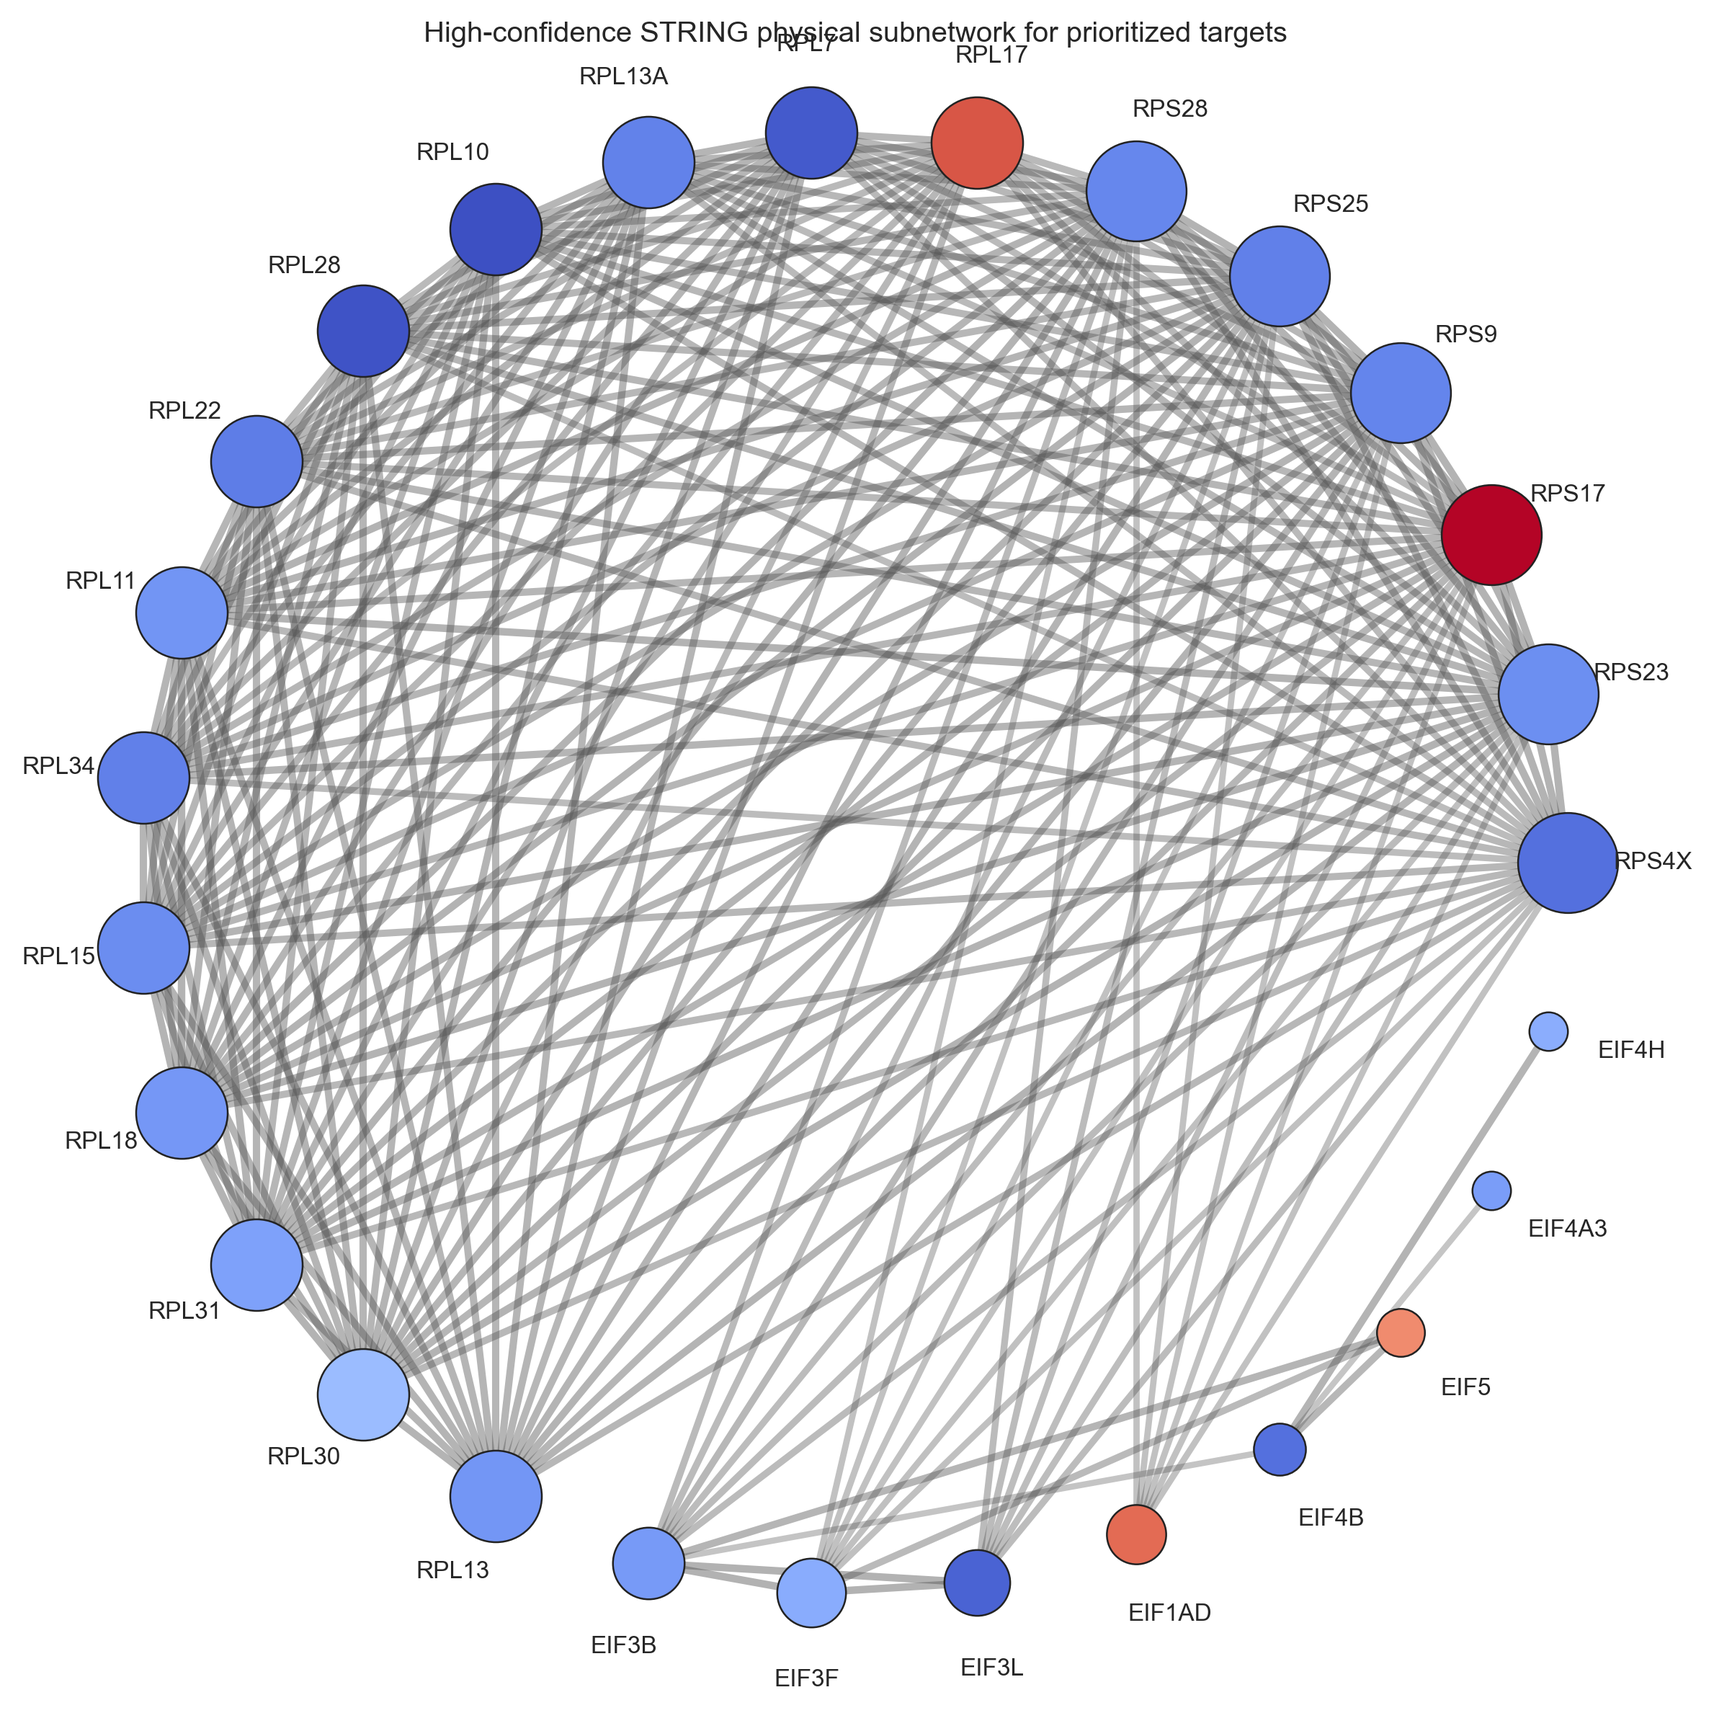
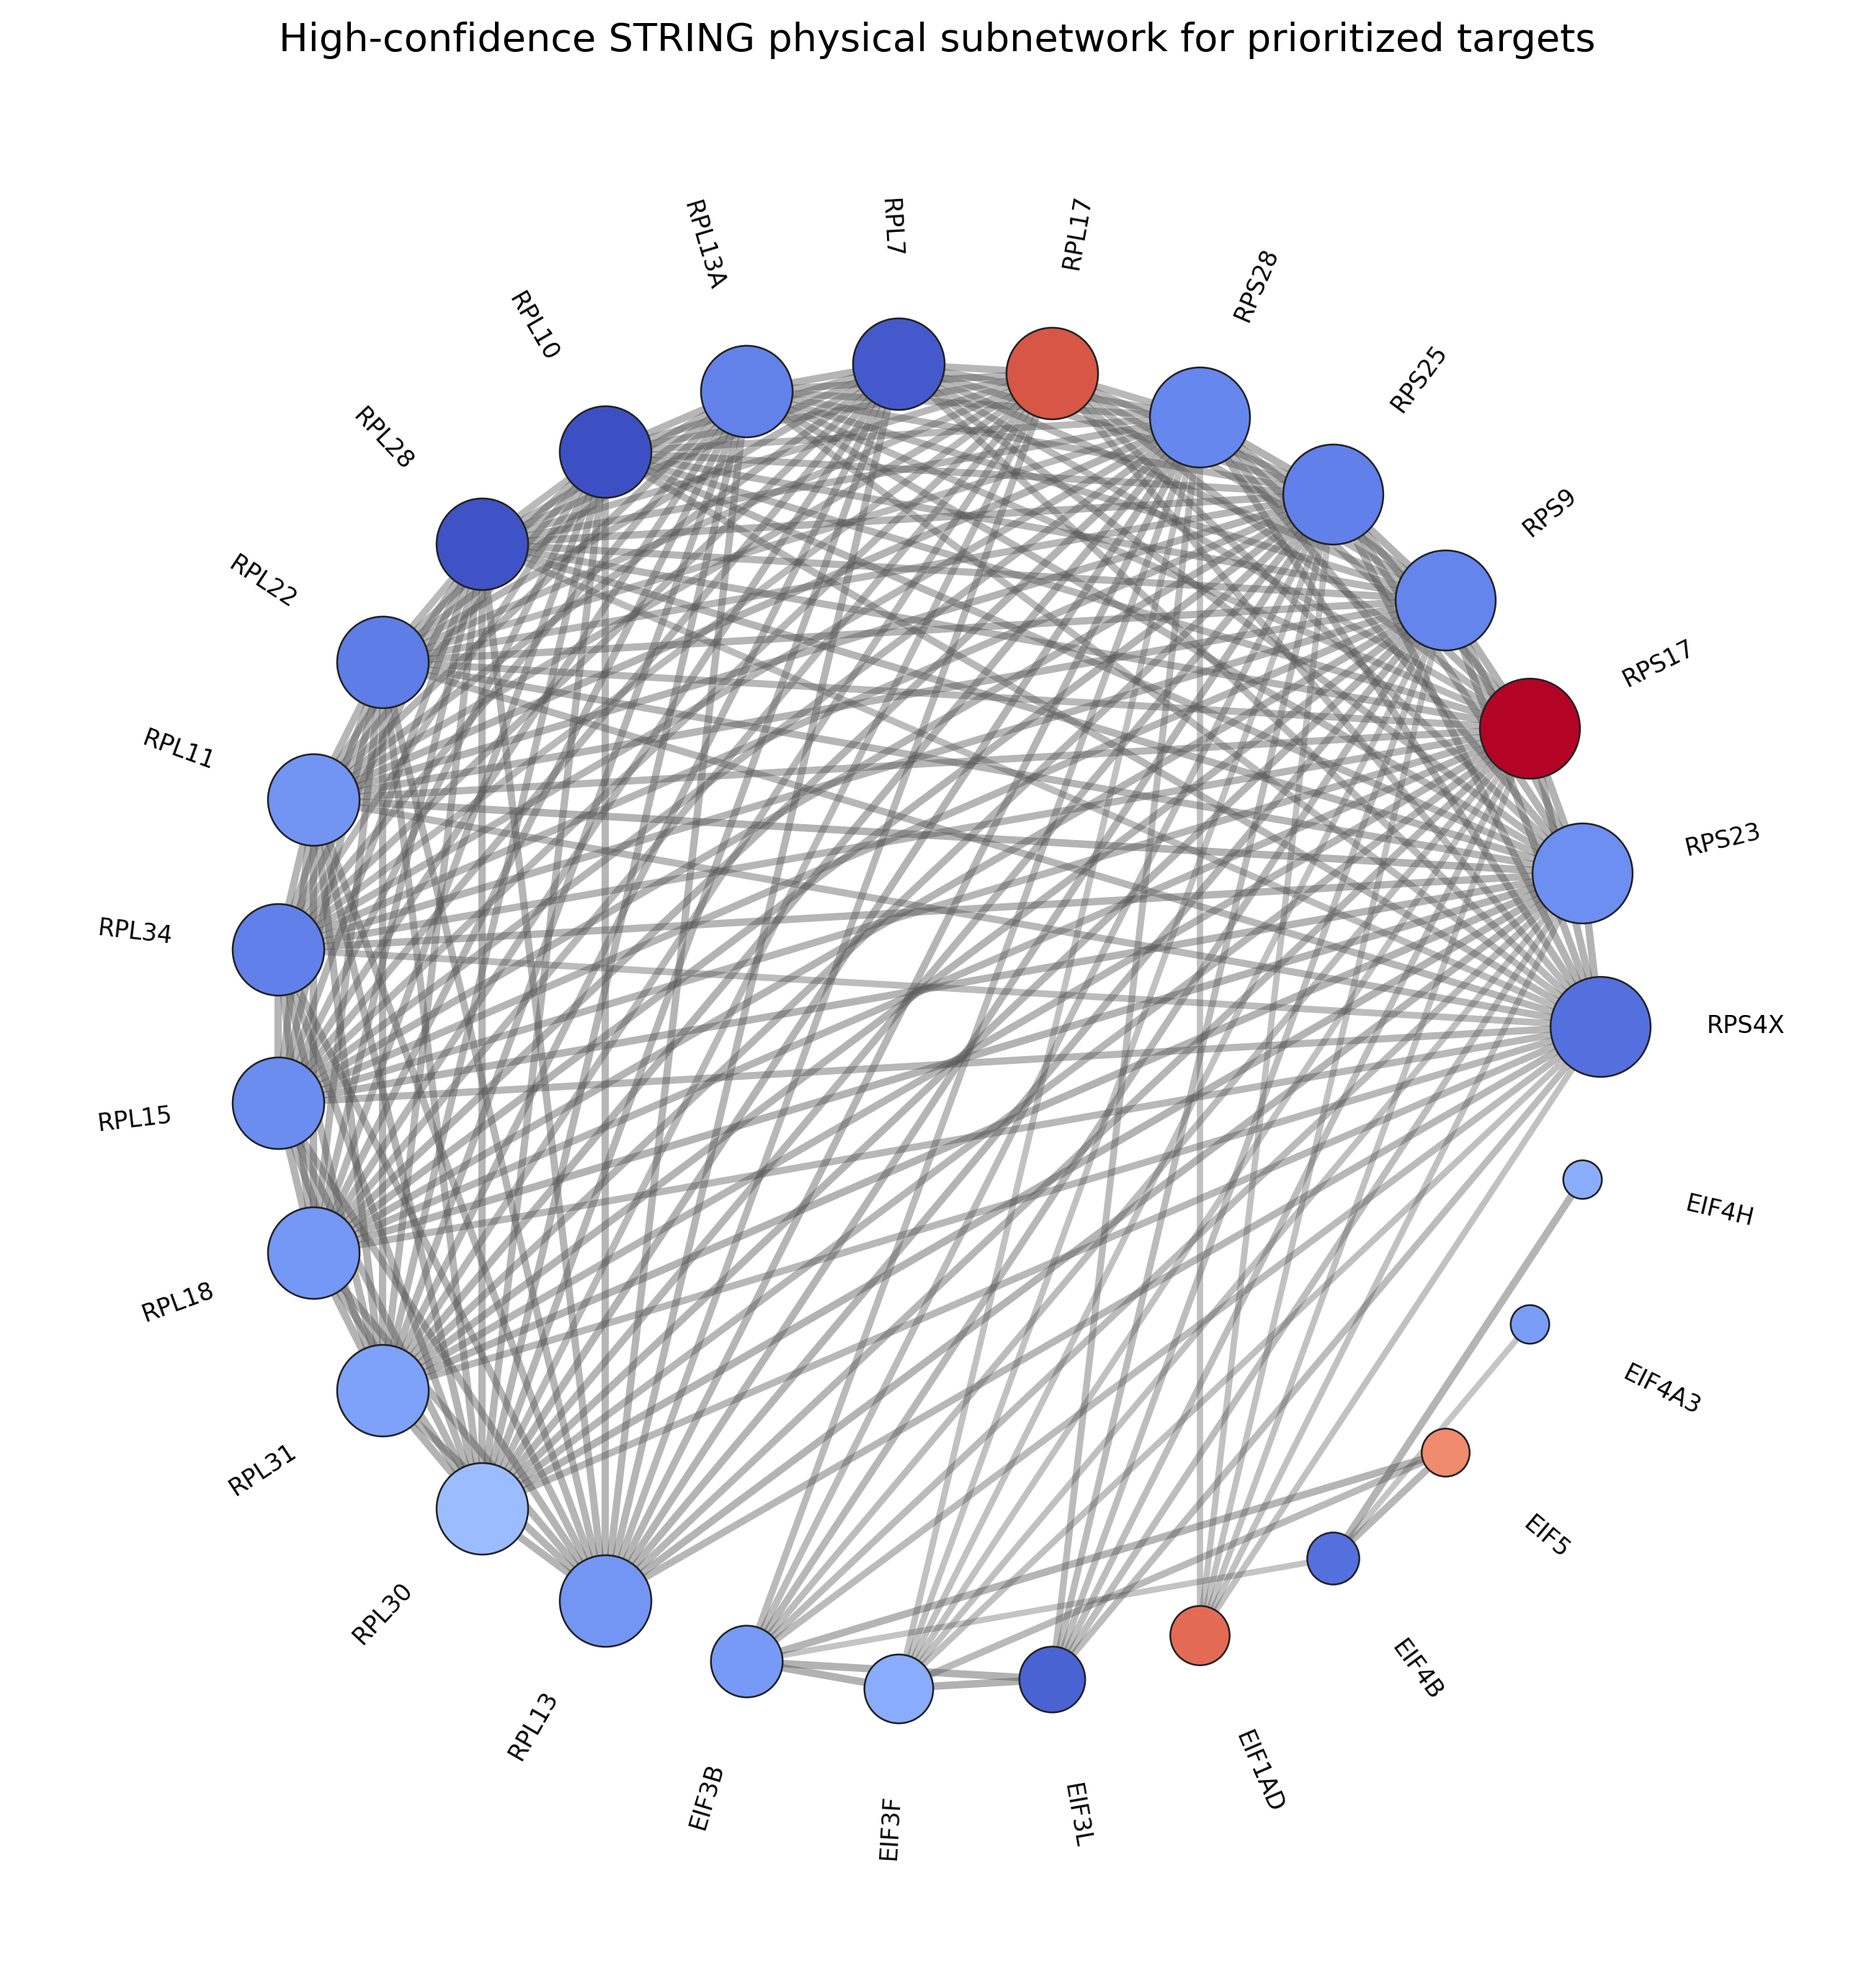
fix: STRING subnetwork label overlap; add verify_clone.sh
- scripts/11: radial (rotated) node labels, wider figure, padded title -> no
  collision between top labels and the title in string_priority_network figure.
- results/mechanistic/string_priority_network.png: regenerated (same data, cached STRING edges).
- results/reports: update SHA-256 manifest + validation report to the regenerated figure.
- verify_clone.sh: fresh-clone reproducibility check (clean venv from pinned deps,
  regenerates offline analyses, asserts manuscript numbers).

diff --git a/scripts/11_run_mechanistic_prioritization.py b/scripts/11_run_mechanistic_prioritization.py
@@ -1,5 +1,5 @@
 #!/usr/bin/env python3
-"""This is for doing:; add host-curated and also mechanistic prioritization evidence for the poxvirus analysis."""
+"""Add host-curated, mechanistic prioritization evidence for the poxvirus analysis."""
 
 from __future__ import annotations
 
@@ -767,10 +767,12 @@ def save_string_network_plot(edges: pd.DataFrame, nodes: pd.DataFrame) -> None:
     node_names = nodes["gene_symbol"].tolist()
     angle = np.linspace(0, 2 * np.pi, len(node_names), endpoint=False)
     positions = {name: (np.cos(a), np.sin(a)) for name, a in zip(node_names, angle, strict=True)}
+    angles = {name: a for name, a in zip(node_names, angle, strict=True)}
     score_norm = colors.Normalize(vmin=-2.5, vmax=2.5)
     cmap = plt.get_cmap("coolwarm")
-    fig, ax = plt.subplots(figsize=(8, 8))
+    fig, ax = plt.subplots(figsize=(11, 11))
     ax.set_axis_off()
+    ax.set_aspect("equal")
     for _, edge in edges.iterrows():
         a = str(edge["preferredName_A"])
         b = str(edge["preferredName_B"])
@@ -793,9 +795,20 @@ def save_string_network_plot(edges: pd.DataFrame, nodes: pd.DataFrame) -> None:
         degree = pd.to_numeric(node.get("degree_in_string_subnetwork"), errors="coerce")
         size = 120 + 45 * (float(degree) if pd.notna(degree) else 0.0)
         ax.scatter(x, y, s=size, color=color, edgecolor="#222222", linewidth=0.6, zorder=2)
-        ax.text(x * 1.12, y * 1.12, name, ha="center", va="center", fontsize=8)
-    ax.set_title("High-confidence STRING physical subnetwork for prioritized targets")
-    fig.tight_layout()
+    label_r = 1.16
+    for name in node_names:
+        a = angles[name]
+        lx, ly = label_r * np.cos(a), label_r * np.sin(a)
+        deg = np.degrees(a)
+        if np.cos(a) >= 0:
+            ha, rot = "left", deg
+        else:
+            ha, rot = "right", deg - 180
+        ax.text(lx, ly, name, rotation=rot, rotation_mode="anchor",
+                ha=ha, va="center", fontsize=8, zorder=3)
+    ax.set_xlim(-1.38, 1.38)
+    ax.set_ylim(-1.38, 1.38)
+    ax.set_title("High-confidence STRING physical subnetwork for prioritized targets", fontsize=13, pad=20)
     for suffix in ("png", "pdf", "svg"):
         fig.savefig(MECH_DIR / f"string_priority_network.{suffix}", dpi=300, bbox_inches="tight")
     plt.close(fig)

diff --git a/results/reports/validation_report.md b/results/reports/validation_report.md
@@ -93,9 +93,9 @@ The primary model uses supplementary count filenames as the fraction source of t
[9 lines of base64/hex data omitted]
 
 ## Hash Receipt
 
